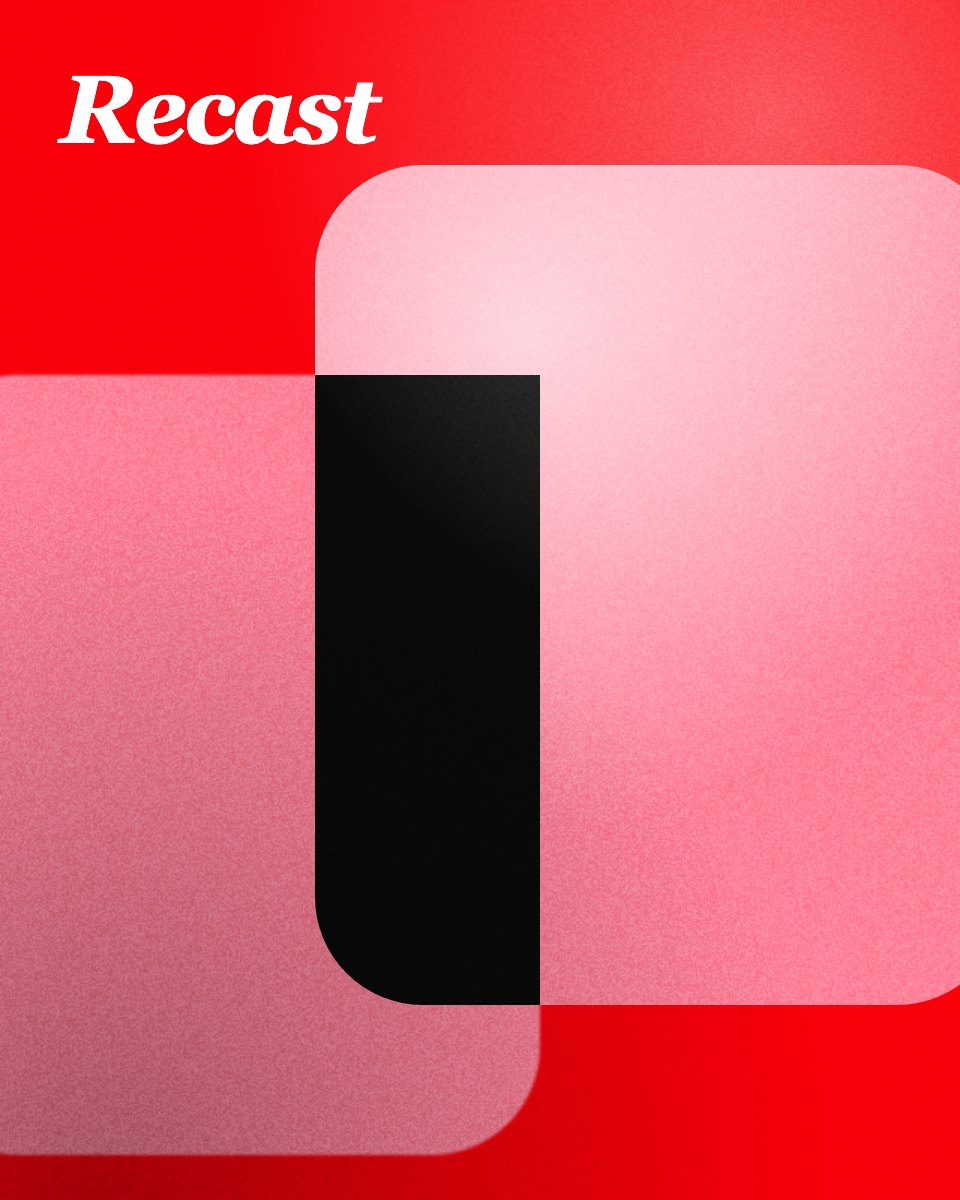
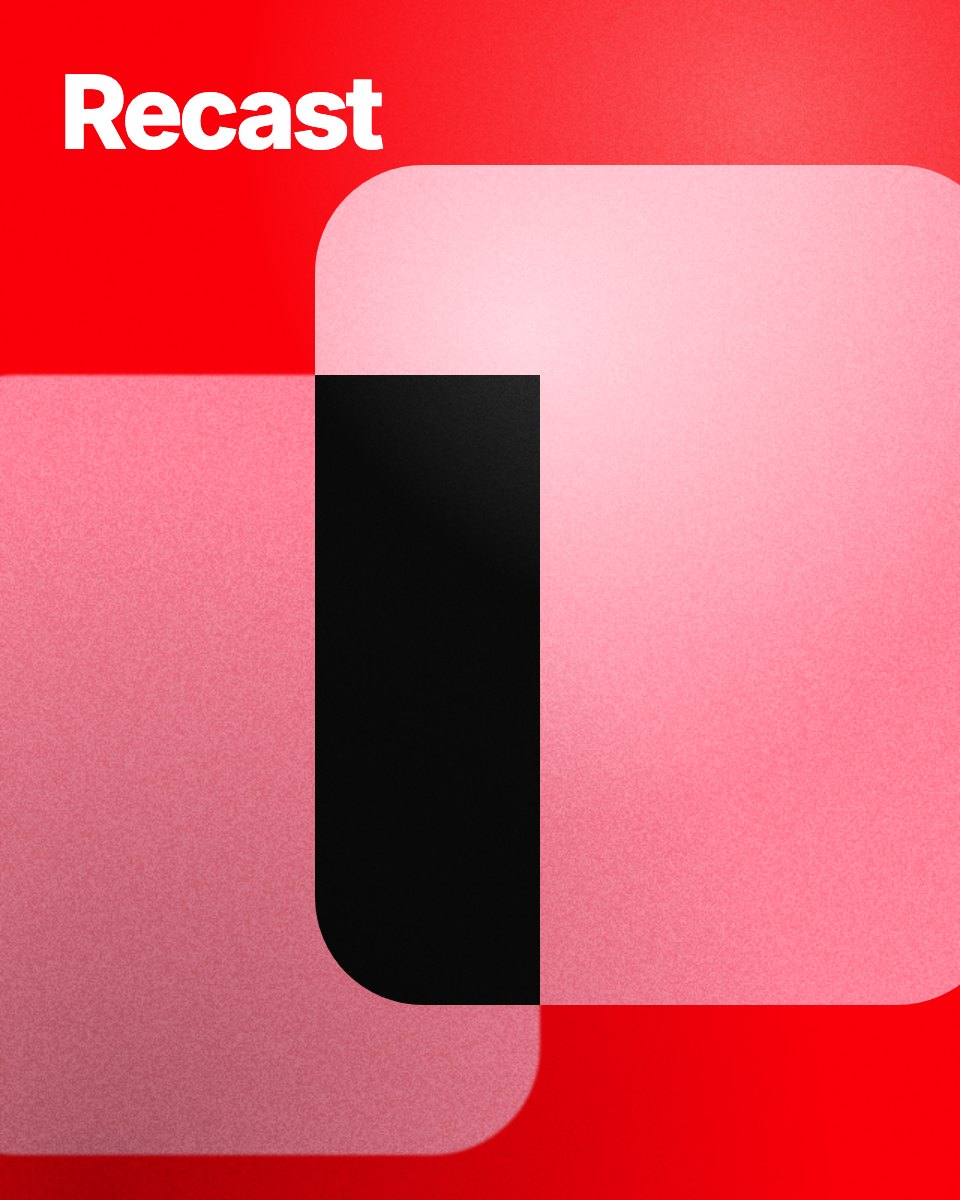
feat(site): set the test page's headings in Inter
Also redraws the test poster in Inter and gives the SVG and the photo the same 4:3 frame.

Changed region(s): [[0.0625, 0.0617, 0.4062, 0.1233]]

diff --git a/apps/site/sample/sample.css b/apps/site/sample/sample.css
@@ -12,7 +12,7 @@
   --card: #ffffff;
   --sunk: #f1efe9;
   --line: #e3e1db;
-  --serif: 'Source Serif 4 Variable', Georgia, serif;
+  --display: 'Inter Variable', system-ui, sans-serif;
   --sans: 'Hanken Grotesk Variable', system-ui, sans-serif;
   --gutter: clamp(20px, 4vw, 56px);
   --ease: cubic-bezier(0.2, 0.8, 0.2, 1);
@@ -40,7 +40,7 @@
   box-sizing: border-box;
   margin: 0;
 }
-/* The serif picks its optical size from the font size. */
+/* Inter picks its optical size from the font size. */
 h1,
 h2,
 .glyphs,
@@ -131,15 +131,15 @@ a {
   padding: clamp(56px, 9vw, 120px) var(--gutter) clamp(48px, 7vw, 96px);
 }
 .intro h1 {
-  font-family: var(--serif);
-  font-size: clamp(56px, 9.5vw, 148px);
-  font-weight: 600;
+  font-family: var(--display);
+  font-size: clamp(48px, 7.4vw, 112px);
+  font-weight: 700;
   line-height: 0.92;
-  letter-spacing: -0.02em;
+  letter-spacing: -0.045em;
 }
 .intro h1 em {
   color: var(--signal);
-  font-weight: 500;
+  font-weight: 700;
 }
 .intro-side p {
   max-width: 440px;
@@ -179,11 +179,11 @@ a {
   border-top: 1px solid var(--line);
 }
 .spec-head h2 {
-  font-family: var(--serif);
+  font-family: var(--display);
   font-size: 44px;
-  font-weight: 600;
+  font-weight: 700;
   line-height: 1.05;
-  letter-spacing: -0.005em;
+  letter-spacing: -0.03em;
 }
 .spec-head p {
   max-width: 300px;
@@ -213,11 +213,11 @@ a {
   gap: 40px;
 }
 .glyphs {
-  font-family: var(--serif);
+  font-family: var(--display);
   font-size: clamp(120px, 16vw, 220px);
-  font-weight: 400;
+  font-weight: 600;
   line-height: 1;
-  letter-spacing: -0.02em;
+  letter-spacing: -0.05em;
 }
 .type-hero dl {
   display: grid;
@@ -237,19 +237,19 @@ a {
   gap: 18px;
 }
 .t-display {
-  font-family: var(--serif);
+  font-family: var(--display);
   font-size: 64px;
   font-weight: 700;
   line-height: 1;
-  letter-spacing: -0.015em;
+  letter-spacing: -0.035em;
 }
 .t-title {
-  font-family: var(--serif);
+  font-family: var(--display);
   font-size: 40px;
   font-style: italic;
-  font-weight: 400;
+  font-weight: 500;
   line-height: 1.1;
-  letter-spacing: -0.005em;
+  letter-spacing: -0.025em;
 }
 .t-head {
   font-size: 24px;
@@ -477,11 +477,12 @@ a {
 /* Vectors and images */
 .media {
   display: grid;
-  grid-template-columns: 1.4fr 1fr;
+  grid-template-columns: 1fr 1fr;
   gap: 16px;
 }
 .media figure {
   display: grid;
+  align-content: start;
   gap: 10px;
 }
 .media figcaption {
@@ -497,8 +498,8 @@ a {
 .photo img {
   display: block;
   width: 100%;
-  height: 100%;
-  max-height: 360px;
+  height: auto;
+  aspect-ratio: 4 / 3;
   object-fit: cover;
   object-position: 50% 0;
   border-radius: 20px;

diff --git a/apps/site/sample/sample.ts b/apps/site/sample/sample.ts
@@ -1,8 +1,8 @@
 // The test page: two typefaces, the PageRecast logo and icons, and the live
 // hex value of every colour token. Everything else is CSS.
 import '@fontsource-variable/hanken-grotesk/wght.css'
-import '@fontsource-variable/source-serif-4/opsz.css'
-import '@fontsource-variable/source-serif-4/opsz-italic.css'
+import '@fontsource-variable/inter/opsz.css'
+import '@fontsource-variable/inter/opsz-italic.css'
 import { renderIcon, type IconName } from '@pagerecast/icons'
 import logo from '../../../assets/brand/logo.svg?raw'
 import './sample.css'

diff --git a/apps/site/sample/index.html b/apps/site/sample/index.html
@@ -50,8 +50,8 @@
             <span class="glyphs" aria-hidden="true">Ag</span>
             <dl>
               <div>
-                <dt>Source Serif 4</dt>
-                <dd>Variable serif, optical size 8 to 60</dd>
+                <dt>Inter</dt>
+                <dd>Variable sans, optical size 14 to 32</dd>
               </div>
               <div>
                 <dt>Hanken Grotesk</dt>

diff --git a/THIRD_PARTY_NOTICES.md b/THIRD_PARTY_NOTICES.md
@@ -9,4 +9,4 @@ The icon set in `packages/icons` uses paths from Material Icons (Round) by Googl
 ## Fonts
 
 - [Hanken Grotesk](https://github.com/marcologous/hanken-grotesk), SIL Open Font License 1.1
-- [Source Serif 4](https://github.com/adobe-fonts/source-serif), SIL Open Font License 1.1, used on the website's test page
+- [Inter](https://github.com/rsms/inter), SIL Open Font License 1.1, used on the website's test page
